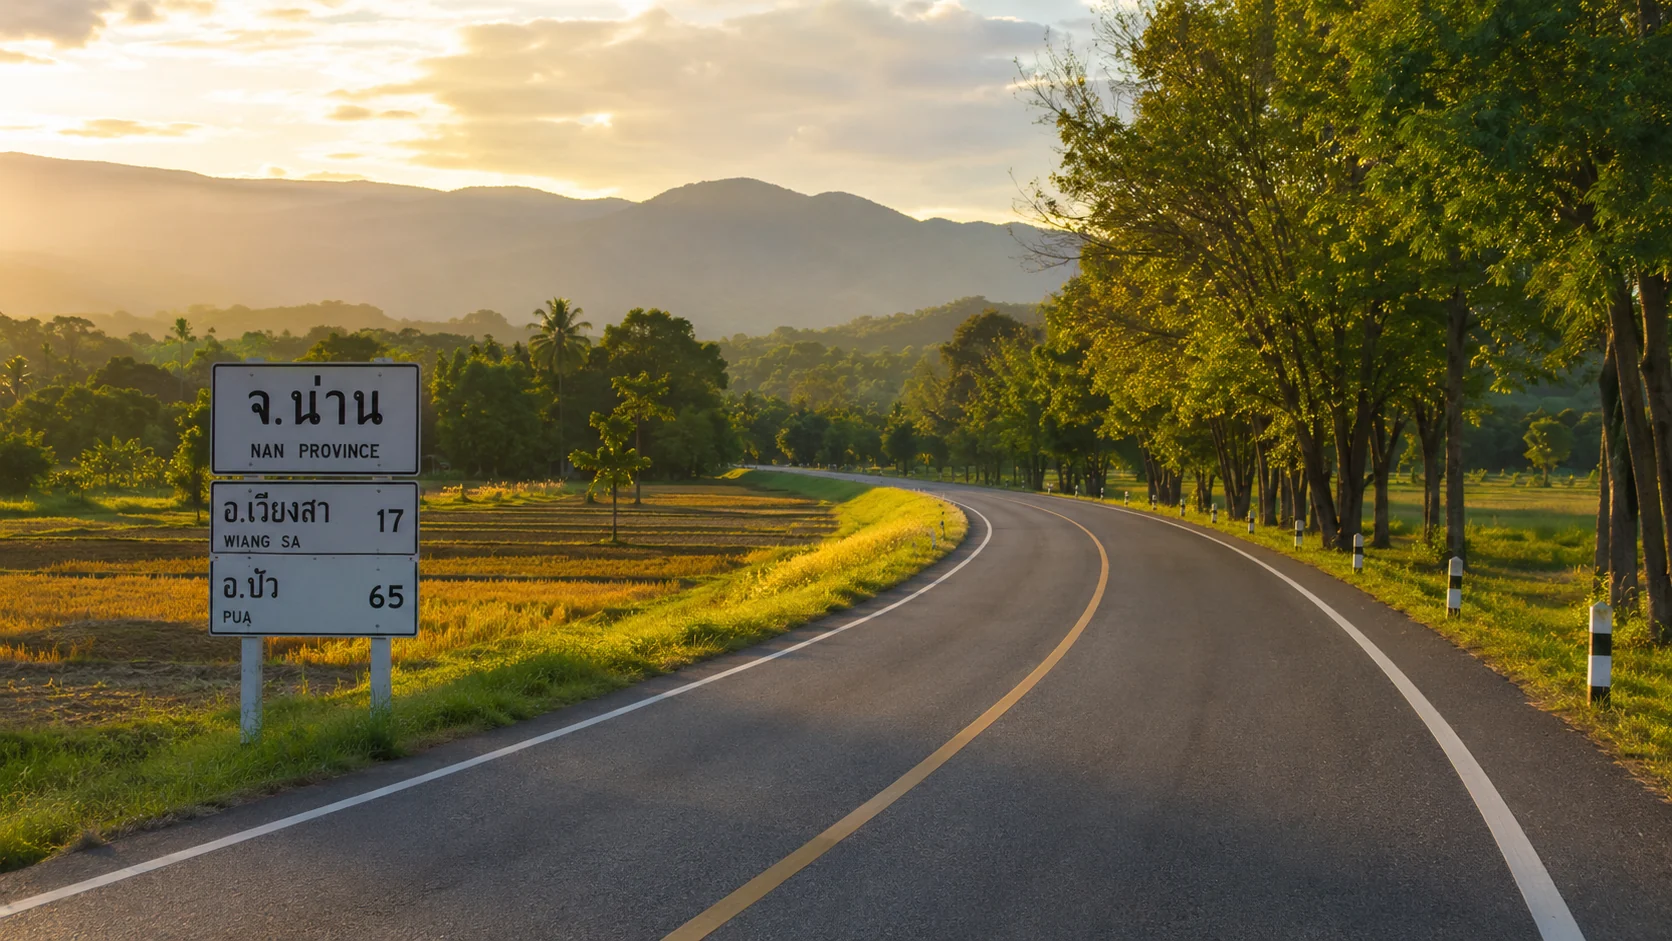
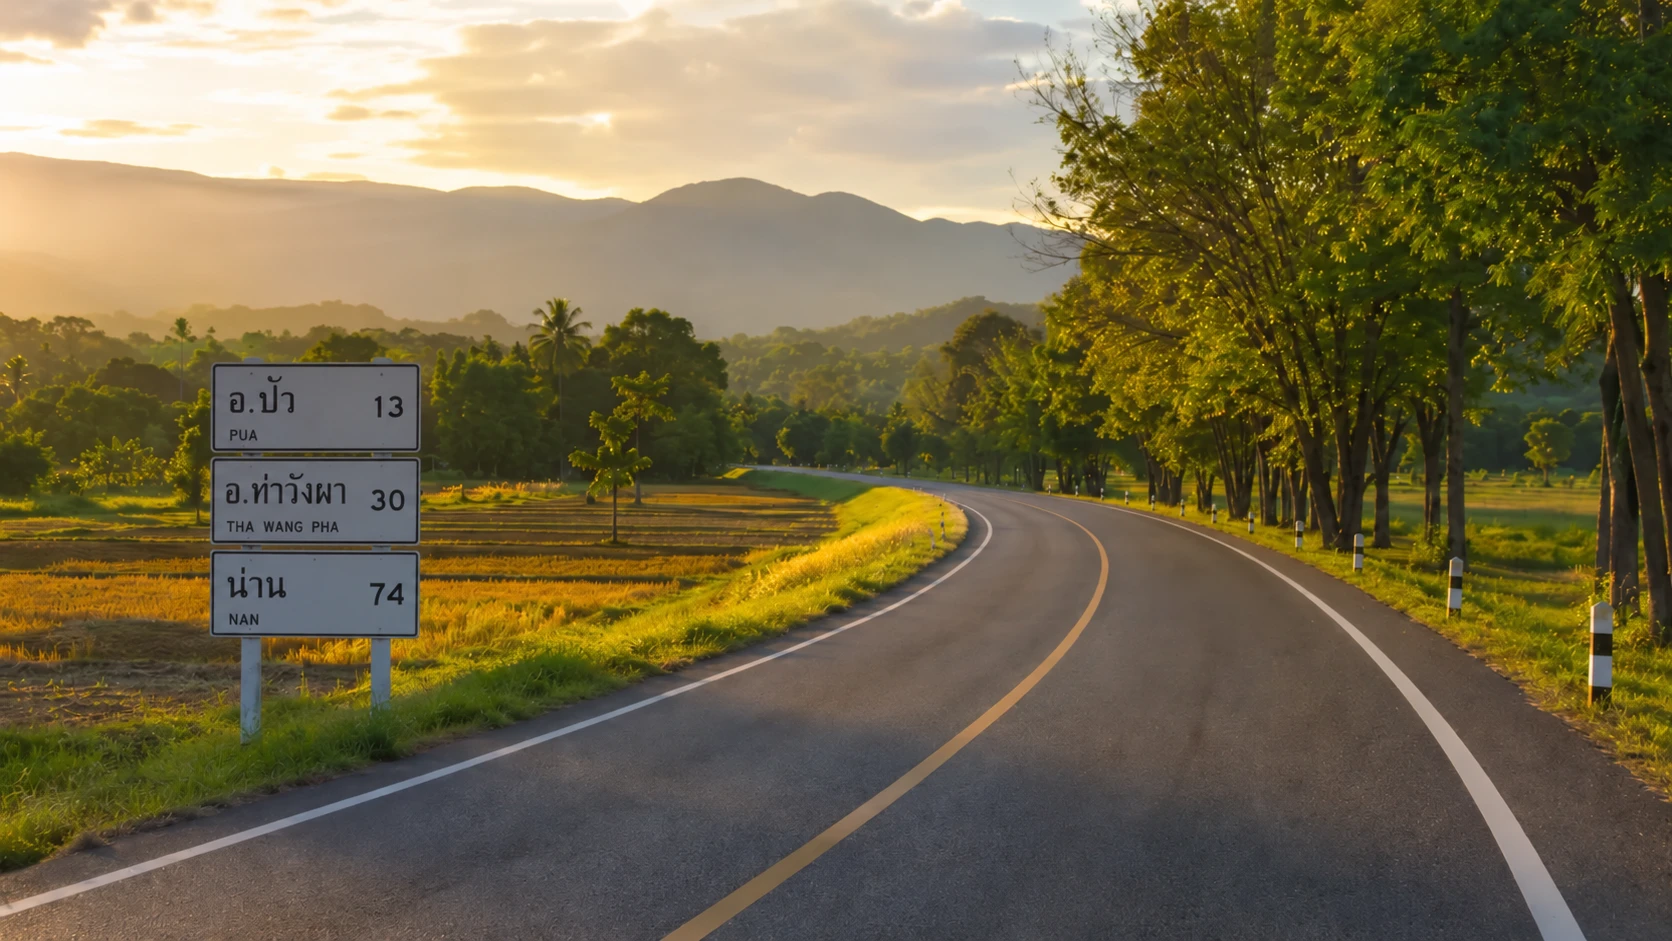
Swap the about-section road sign for the organiser's correct photo
The client flagged the Wiang Sa/Pua sign as the wrong one; replaced
with the Pua/Tha Wang Pha/Nan sign they sent instead, same crop and
dimensions so nothing else on the section needed to change. Alt text
updated to describe what the new sign actually says. Old master kept
in src/img/unused/ rather than deleted, per the usual rule for a
client's own photographs.

diff --git a/web-lead-craft/sites/lanna-mekong-1200-gold/src/body.html b/web-lead-craft/sites/lanna-mekong-1200-gold/src/body.html
@@ -175,7 +175,7 @@
       <figure class="about-shot rv">
         <span class="about-media">
           <span class="about-frame"></span>
-          <img {{img:nan-province-sign:(max-width:940px) 92vw, 46vw}} width="1672" height="941" alt="ถนนยามเย็นในจังหวัดน่าน มีป้ายบอกทางอำเภอเวียงสาและอำเภอปัว กับทุ่งนาและภูเขาเบื้องหลัง">
+          <img {{img:nan-province-sign:(max-width:940px) 92vw, 46vw}} width="1672" height="941" alt="ถนนยามเย็นในจังหวัดน่าน มีป้ายบอกทางอำเภอปัว อำเภอท่าวังผา และตัวเมืองน่าน กับทุ่งนาและภูเขาเบื้องหลัง">
         </span>
         <figcaption>ถนนสายน่าน มุ่งหน้าอำเภอปัว — ภาพจากผู้จัดงาน</figcaption>
       </figure>
